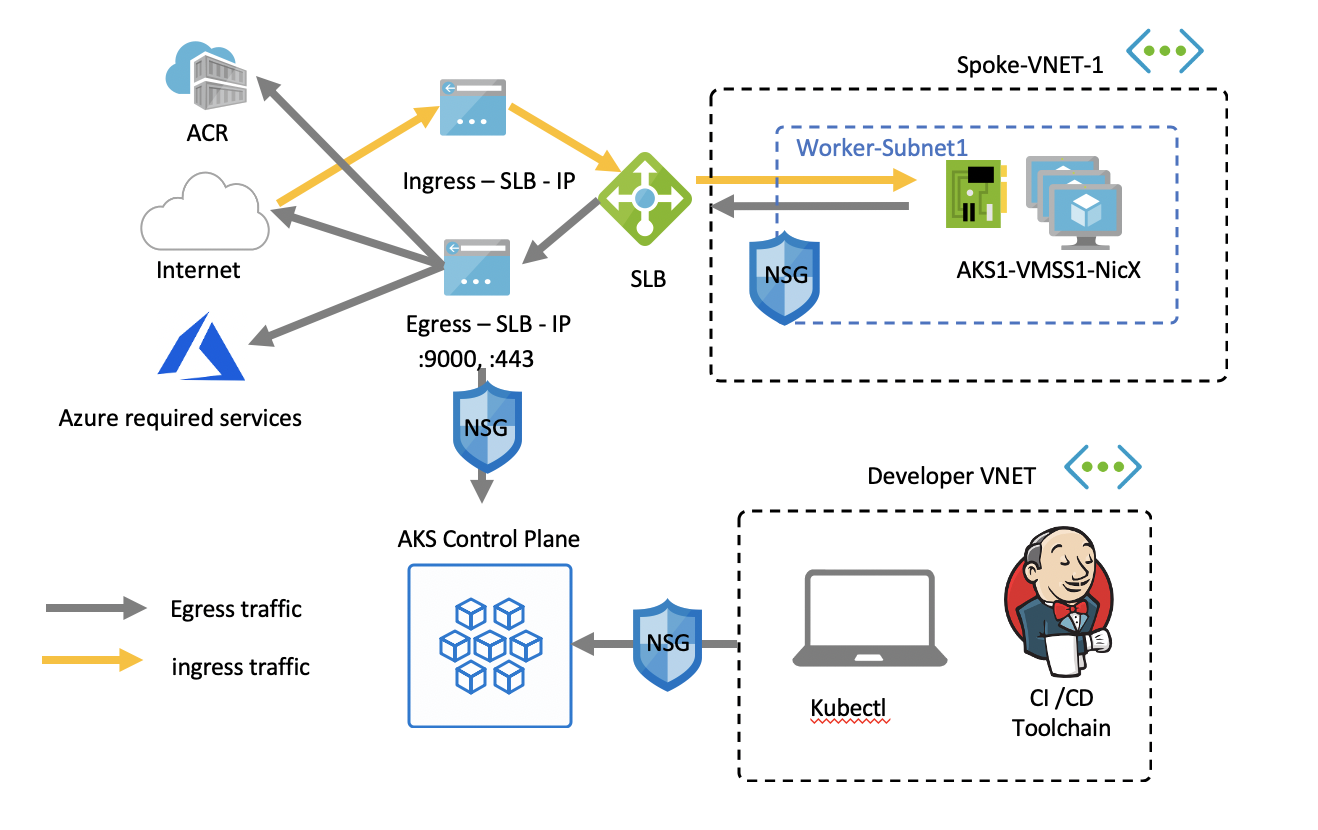
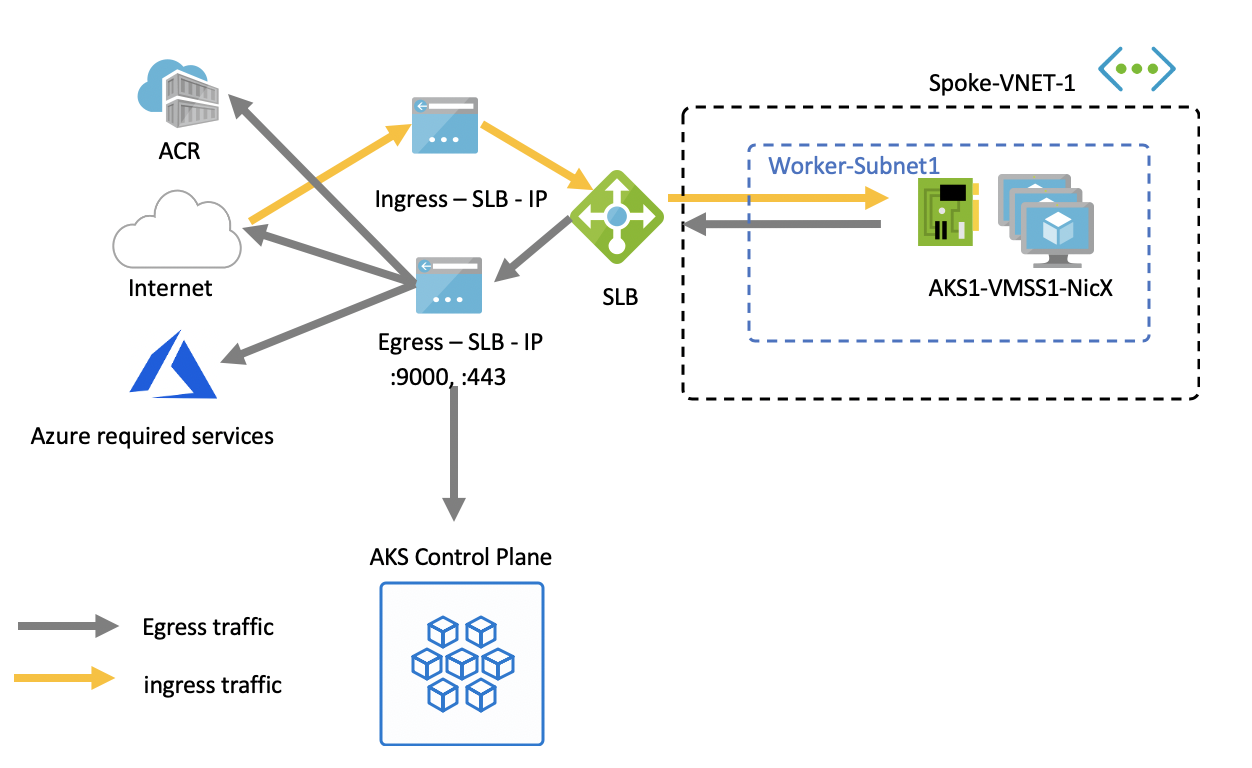
fixing diagrams, slimming down

diff --git a/articles/aks/egress-outboundtype.md b/articles/aks/egress-outboundtype.md
@@ -12,9 +12,10 @@ ms.author: mlearned
 #Customer intent: As a cluster operator, I want to define my own egress paths with user defined routes. Since I define this up front I do not want AKS provided load balancer configurations.
 ---
 
-# Cluster egress with a User Defined Route (Preview)
+# Limit cluster egress with a User Defined Route (Preview)
 
 Egress from an AKS cluster can be customized to fit specific scenarios. By default, AKS will provision a Standard SKU Load Balancer to be setup and used for egress. The setup of the load balancer is done on behalf of the user for the following reasons.
+
 1. A public IP address is required for the Standard SKU load balancer for egress, so AKS automatically assigns a public IP to the load balancer as egress setup is not provided by default. This behavior changes between the Basic SKU load balancers. 
 1. AKS [requires outbound connectivity](limit-egress-traffic.md) to function properly and issue common operations such as pulling system-pod images or security patches. To learn more about why clusters require external connectivity and the required endpoints that clusters must be able to access, read about [controlling egress traffic for cluster nodes](limit-egress-traffic.md).
 
@@ -53,11 +54,12 @@ az extension update --name aks-preview
 
 ## Overview of outbound types in AKS
 
-An AKS cluster can be customized with a unique `outboundType`. Options include
+An AKS cluster can be customized with a unique `outboundType`. There are two options.
 1. `loadBalancer`
-1. `userDefinedRoute`. 
+1. `userDefinedRoute`
 
-This impacts only the egress traffic of your cluster, to learn about ingress read documentation on setting up [ingress controllers](ingress-basic.md).
+> [!IMPORTANT]
+> This impacts only the egress traffic of your cluster. To learn about ingress visit [setting up ingress controllers](ingress-basic.md).
 
 ### Outbound type of loadBalancer
 
@@ -65,12 +67,16 @@ This impacts only the egress traffic of your cluster, to learn about ingress rea
    * A public IP address is provisioned for cluster egress.
    * The public IP address is assigned to the load balancer resource.
    * Backend pools for the load balancer are setup for agent nodes in the cluster.
+   * Traffic out of an AKS cluster to the control plane held in Azure is encrypted in transit
 
 Below is a network topology deployed in AKS clusters by default, which use an `outboundType` of `loadBalancer`.
 
 ![outboundtype-lb](media/egress-outboundtype/outboundtype-lb.png)
 
 ### Outbound type of userDefinedRoute
+
+> [!NOTE]
+> This is an advanced networking scenario and requires proper network configuration to have running clusters.
 
 * If `userDefinedRoute` is set, AKS will not automatically configure egress paths. The following is expected to be done by **the user**.
    * A valid user defined route (UDR) must exist on the subnet the cluster is deployed into.
@@ -91,58 +97,83 @@ Azure resources are isolated in dedicated subnets and route inbound traffic from
 To begin, define a set of environment variables to be used in resource creations.
 
 ```bash
-export PREFIX="yourPrefix"
-export RG="${PREFIX}-rg"
-export LOC="canadacentral"
-export AKSNAME="${PREFIX}"
-export AKSSUBNET_NAME="${PREFIX}akssubnet"
-export VNET_NAME="${PREFIX}vnet"
+PREFIX="contosofin"
+RG="${PREFIX}-rg"
+LOC="eastus"
+NAME="${PREFIX}outboundudr"
+ACR_NAME="${NAME}acr"
+VNET_NAME="${PREFIX}vnet"
+AKSSUBNET_NAME="${PREFIX}akssubnet"
+SVCSUBNET_NAME="contosofinsvcsubnet"
 # DO NOT CHANGE FWSUBNET_NAME - This is currently a requirement for Azure Firewall.
-export FWSUBNET_NAME="AzureFirewallSubnet"
-export FWNAME="${PREFIX}fw"
-export FWPUBLICIP_NAME="${PREFIX}fwpublicip"
-export FWIPCONFIG_NAME="${PREFIX}fwconfig"
-export FWROUTE_TABLE_NAME="${PREFIX}fwrt"
-export FWROUTE_NAME="${PREFIX}fwrn"
-export FWROUTE_NAME_INTERNET="${PREFIX}fwrninternet"
-export PLUGIN="azure"
-export APPID="enter service principal id"
-export PASSWORD="enter service principal secret"
-export BASE_ADDRESS=10.42
+FWSUBNET_NAME="AzureFirewallSubnet"
+FWNAME="${PREFIX}fw"
+FWPUBLICIP_NAME="${PREFIX}fwpublicip"
+FWIPCONFIG_NAME="${PREFIX}fwconfig"
+FWROUTE_TABLE_NAME="${PREFIX}fwrt"
+FWROUTE_NAME="${PREFIX}fwrn"
+```
+
+Next, set subscription IDs.
+
+```azure-cli
+# Get ARM Access Token and Subscription ID - This will be used for AuthN later.
+ACCESS_TOKEN=$(az account get-access-token -o tsv --query 'accessToken')
+
+# NOTE: Update Subscription Name
+# Set Default Azure Subscription to be Used via Subscription ID
+az account set -s <SUBSCRIPTION_ID_GOES_HERE>
+
+# NOTE: Update Subscription Name for setting SUBID
+SUBID=$(az account show -s '<SUBSCRIPTION_NAME_GOES_HERE>' -o tsv --query 'id')
 ```
 
 ## Create virtual networks and subnets
+To begin we will provision a virtual network with two separate subnets.
 
-Now, create a resource group to hold all of the resources in this scenario.
+![Empty network topology](media/egress-outboundtype/empty-network.png)
 
-```
+First, create a resource group to hold all of the resources in this scenario.
+
+```azure-cli
+# Create Resource Group
 az group create --name $RG --location $LOC
 ```
 
-Create a virtual network to host the AKS cluster and Azure Firewall.
+Create a two virtual networks to host the AKS cluster and the Azure Firewall. Each will have their own subnet. Let's start with the AKS network.
 
 ```
+# Dedicated virtual network for AKS cluster
 az network vnet create \
     --resource-group $RG \
     --name $VNET_NAME \
-    --address-prefixes $BASE_ADDRESS.0.0/16 \
+    --address-prefixes 100.64.0.0/16 \
     --subnet-name $AKSSUBNET_NAME \
-    --subnet-prefix $BASE_ADDRESS.1.0/24
+    --subnet-prefix 100.64.1.0/24
+
+# Dedicated subnet for K8s services
+az network vnet subnet create \
+    --resource-group $RG \
+    --vnet-name $VNET_NAME \
+    --name $SVCSUBNET_NAME \
+    --address-prefix 100.64.2.0/24
 ```
 
-Now we can create a subnet within this virtual network to be dedicated to the Azure Firewall resource.
-
+Now let's create the Firewall network.
 ```
+# Dedicated subnet for Azure Firewall (Firewall name cannot be changed)
 az network vnet subnet create \
     --resource-group $RG \
     --vnet-name $VNET_NAME \
     --name $FWSUBNET_NAME \
-    --address-prefix $BASE_ADDRESS.4.0/24
+    --address-prefix 100.64.3.0/24
 ```
 
 ## Create an Azure Firewall with a public endpoint
 
-Azure Firewall acts as the ingress point for incoming traffic so firewall filters can be applied. On egress, the AKS cluster will rely on a UDR to make the next hop to the Azure Firewall for exit from the virtual network.
+![Firewall and UDR](media/egress-outboundtype/firewall-udr.png)
+
+This section walks through setting up Azure Firewall inbound and outbound rules. The main purpose of the firewall is to enable organizations to set up ingress and egress traffic rules for the AKS Cluster.
 
 Create a standard SKU public IP resource which will be used as the Azure Firewall frontend address.
 
@@ -152,41 +183,39 @@ az network public-ip create -g $RG -n $FWPUBLICIP_NAME -l $LOC --sku "Standard"
 
 Register the preview cli-extension to create an Azure Firewall.
 ```azure-cli
+# Install Azure Firewall preview CLI extension
 az extension add --name azure-firewall
+
+# Deploy Azure Firewall
 az network firewall create -g $RG -n $FWNAME -l $LOC
 ```
 
 The IP address created earlier can now be assigned to the firewall frontend.
+> [!NOTE]
+> Setup of the public IP address to the Azure Firewall may take a few minutes.
+
 ```azure-cli
 ## Configure Firewall IP Config
-## This command will take a few minutes.
 az network firewall ip-config create -g $RG -f $FWNAME -n $FWIPCONFIG_NAME --public-ip-address $FWPUBLICIP_NAME --vnet-name $VNET_NAME
 ```
 
-Save the firewall frontend IP address for configuration later.
+When the previous command has succeeded, save the firewall frontend IP address for configuration later.
+
 ```bash
 ## Capture Firewall IP Address for Later Use
-export FWPUBLIC_IP=$(az network public-ip show -g $RG -n $FWPUBLICIP_NAME --query "ipAddress" -o tsv)
-export FWPRIVATE_IP=$(az network firewall show -g $RG -n $FWNAME --query "ipConfigurations[0].privateIpAddress" -o tsv)
+FWPUBLIC_IP=$(az network public-ip show -g $RG -n $FWPUBLICIP_NAME --query "ipAddress" -o tsv)
+FWPRIVATE_IP=$(az network firewall show -g $RG -n $FWNAME --query "ipConfigurations[0].privateIpAddress" -o tsv)
 ```
 
-### Add network firewall rules
+Now we can create a UDR and route table for the Azure Firewall.
 
-When configuring firewall rules, read the [required egress endpoints](egress.md) AKS needs to operate. All of these must be accounted for in addition to any specific egress needs for workloads running on the cluster. In this example we will only add one as an example.
-
-```
-# Add Network FW Rules
-
-az network firewall network-rule create -g $RG -f $FWNAME --collection-name 'aksfwnr' -n 'netrules' --protocols 'Any' --source-addresses '*' --destination-addresses '*' --destination-ports '*' --action allow --priority 100
-
-# Add Application FW Rules
-# IMPORTANT: Add AKS required egress endpoints
-az network firewall application-rule create -g $RG -f $FWNAME --collection-name 'aksfwar' -n 'fqdn' --source-addresses '*' --protocols 'http=80' 'https=443' --target-fqdns '*' --action allow --priority 100
+```azure-cli
+# Create UDR & Routing Table for Azure Firewall
+az network route-table create -g $RG --name $FWROUTE_TABLE_NAME
+az network route-table route create -g $RG --name $FWROUTE_NAME --route-table-name $FWROUTE_TABLE_NAME --address-prefix 0.0.0.0/0 --next-hop-type VirtualAppliance --next-hop-ip-address $FWPRIVATE_IP --subscription $SUBID
 ```
 
-To learn more about Azure Firewall rules, visit the [Azure Firewall documentation](https://docs.microsoft.com/azure/firewall/overview).
-
-## Create a UDR for egress
+### Create a UDR for AKS to hop to Azure Firewall
 
 Azure automatically routes traffic between Azure subnets, virtual networks, and on-premises networks. If you want to change any of Azure's default routing, you do so by creating a route table.
 
@@ -207,7 +236,26 @@ az network route-table route create -g $RG --name $FWROUTE_NAME_INTERNET --route
 
 To learn more about how to create custom, or user-defined, routes read [virtual network documentation](https://docs.microsoft.com/azure/virtual-network/virtual-networks-udr-overview#user-defined) about how you can override Azure's default system routes or add additional routes to a subnet's route table.
 
-## Associate the cluster subnet to the Azure Firewall
+## Examples of adding network firewall rules
+
+> [!IMPORTANT]
+> All egress endpoints must be enabled for access, defined in the [required egress endpoints](egress.md) for AKS. Read this document carefully and add all necessary endpoints for your cluster. Without these endpoints enabled, your cluster cannot operate.
+
+To show an example rule, a firewall can be added to enable access to Miccrosoft Container Registry (MCR).
+
+```
+# Add Network FW Rules
+
+az network firewall network-rule create -g $RG -f $FWNAME --collection-name 'aksfwnr' -n 'netrules' --protocols 'Any' --source-addresses '*' --destination-addresses '*' --destination-ports '*' --action allow --priority 100
+
+# Add Application FW Rules
+# IMPORTANT: Add AKS required egress endpoints
+az network firewall application-rule create -g $RG -f $FWNAME --collection-name 'aksfwar' -n 'fqdn' --source-addresses '*' --protocols 'http=80' 'https=443' --target-fqdns '*' --action allow --priority 100
+```
+
+To learn more about Azure Firewall rules, visit the [Azure Firewall documentation](https://docs.microsoft.com/azure/firewall/overview).
+
+## Associate the AKS subnet to Azure Firewall
 
 To connect egress from the cluster, the dedicated subnet for the AKS cluster must be associated with the Azure Firewall. This can be done by issuing a command to the virtual network holding both the cluster and firewall to update the route table of the cluster's subnet.
 
@@ -216,15 +264,40 @@ To connect egress from the cluster, the dedicated subnet for the AKS cluster mus
 az network vnet subnet update -g $RG --vnet-name $VNET_NAME --name $AKSSUBNET_NAME --route-table $FWROUTE_TABLE_NAME
 ```
 
-Permissions must also be granted to the service principal passed to the AKS cluster to enable permission to be deployed into the network.
+## Deploy AKS with outbound type of UDR to the existing network
+
+![aks-deploy](media/egress-outboundtype/aks-deployed.png)
+
+### Create a service principal with access to provision inside the existing virtual network
+
+This section walks through creating a Service Principal which will be used by AKS to create the cluster resources. It is this Service Principal which creates underlying AKS resources such as VMs, Storage, and Load Balancers used by AKS. If you grant too few permissions, it will not be able to provision an AKS Cluster.
 
 ```azure-cli
+# Create SP and Assign Permission to Virtual Network
+az ad sp create-for-rbac -n "${PREFIX}sp" --skip-assignment
+
+# ********************************************************************************
+# Take the SP Creation output from above command and fill in Variables accordingly
+# ********************************************************************************
+
+APPID="<SERVICE_PRINCIPAL_APPID_GOES_HERE>"
+PASSWORD="<SERVICEPRINCIPAL_PASSWORD_GOES_HERE>"
+VNETID=$(az network vnet show -g $RG --name $VNET_NAME --query id -o tsv)
+
+# Assign SP Permission to VNET
 az role assignment create --assignee $APPID --scope $VNETID --role Contributor
+
+# View Role Assignment
+az role assignment list --assignee $APPID --all -o table
 ```
 
-## Deploy a cluster with outbound type of UDR to an existing subnet
+### Deploy AKS
 
-Finally, the AKS cluster can be deployed into the existing subnet we have dedicated for the cluster. We will define the outbound type to follow the UDR which exists on the subnet, enabling AKS to skip setup and IP provisioning for the load balancer which can now be strictly internal.
+Finally, the AKS cluster can be deployed into the existing subnet we have dedicated for the cluster. The target subnet to be deployed into is defined with the environment variable, `$SUBNETID`.
+
+We will define the outbound type to follow the UDR which exists on the subnet, enabling AKS to skip setup and IP provisioning for the load balancer which can now be strictly internal.
+
+We will also add the AKS feature for [API server authorized IP ranges](api-server-authorized-ip-ranges.md) to limit API server access to only the firewall's public endpoint. This is denoted in the diagram as the NSG which must be passed to access the control plane. When enabling this feature to limit API server access, your developer tools must use a jumpbox from the firewall's virtual network or you must add all developer endpoints to the authorized IP range.
 
 ```azure-cli
 az aks create -g $RG -n $AKSNAME -l $LOC \
@@ -239,9 +312,18 @@ az aks create -g $RG -n $AKSNAME -l $LOC \
   --client-secret $PASSWORD \
   --load-balancer-sku standard \
   --outbound-type userDefinedRouting
+  --api-server-authorized-ip-ranges <INSERT FIREWALL IP RANGE> \
   ```
 
-## Create and configure additional Kubernetes services
+## Additional considerations
+
+![Locked down topology](media/egress-outboundtype/outboundtype-udr-acr.png)
+
+To complete the original scenario diagram, additional resources need to be configured. Consider the additional documents below to meet scenario requirements.
+
+### Authorize and connect an Azure Container Registry
+
+### Create and configure additional Kubernetes services
 
 When adding additional Kubernetes services into a cluster with outbound type customized with UDR, an additional destination network address translation (DNAT) rule may be required. This is a hard requirement in the firewall scenario described above. This requires a new public IP to be available on the Azure Firewall and a dedicated DNAT rule for each subsequent service.
 

diff --git a/articles/aks/load-balancer-standard.md b/articles/aks/load-balancer-standard.md
@@ -55,11 +55,10 @@ The following limitations apply when you create and manage AKS clusters that sup
 
 ## Use the *Standard* SKU load balancer
 
-When you create an AKS cluster, by default, the *Standard* SKU load balancer is used when you run services in that cluster. For example, [the quickstart using the Azure CLI][aks-quickstart-cli] deploys a sample application that uses the *Standard* SKU load balancer. 
+When you create an AKS cluster, by default, the *Standard* SKU load balancer is used when you run services in that cluster. For example, [the quickstart using the Azure CLI][aks-quickstart-cli] deploys a sample application that uses the *Standard* SKU load balancer.
 
-## Skip public IP provisioning for *Standard* SKU load balancer in AKS
-
-Due to requirements for AKS to have outbound connectivity and Standard SKU Load Balancers to have configured IP addresses for egress from the load balancer resource, users may wish to setup an alternative path for outbound connections. This can be achieved by [setting `outboundType` to a value of 'UDR'](egress-outboundtype.md).
+> [!IMPORTANT]
+> **If public IP addresses are disallowed**, cluster egress can be customized through a user defined route (UDR). This will skip IP provisioning and backend pool setups for the Azure load balancer. To learn how to set this, follow documentation on [setting a cluster's `outboundType` to 'userDefinedRouting'](egress-outboundtype.md).
 
 ## Configure the load balancer to be internal
 
